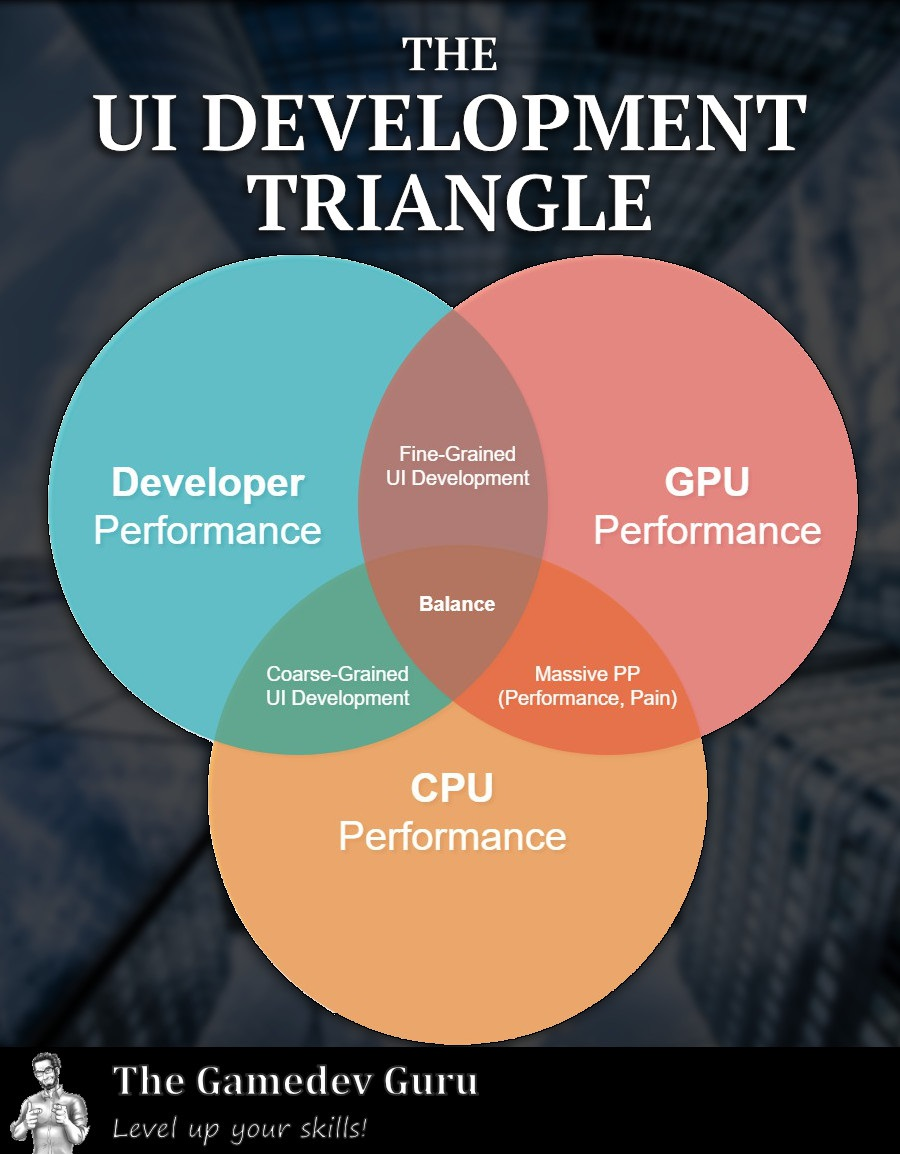
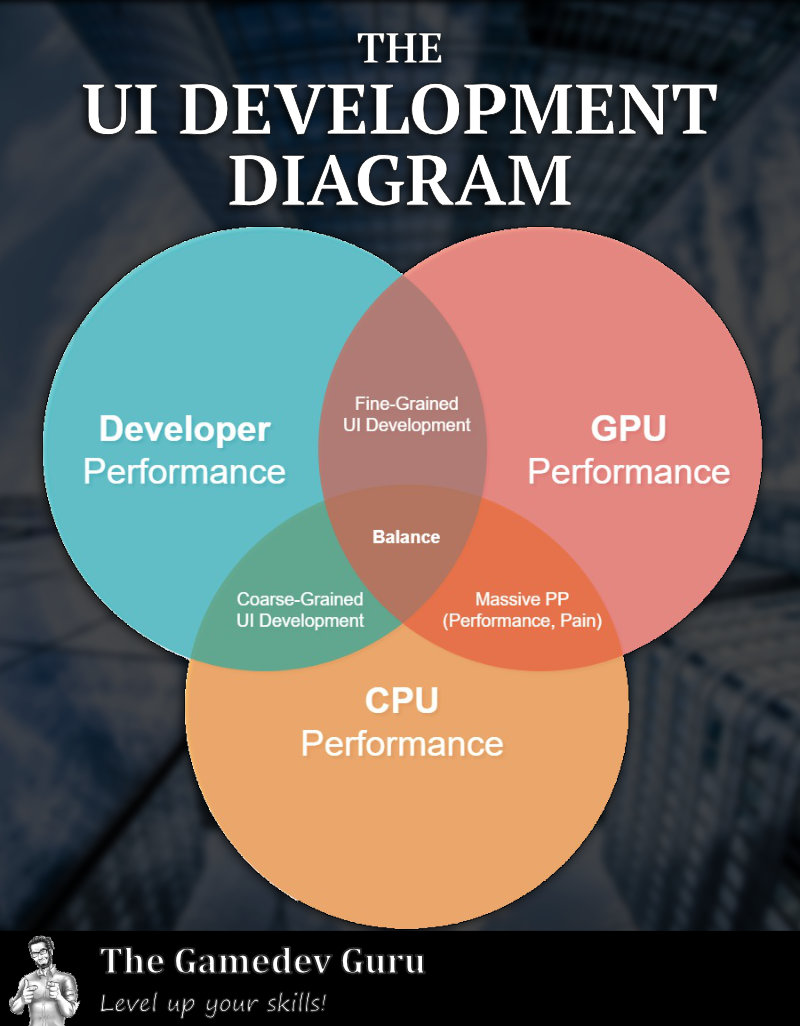
Renaming

Changed region(s): [[0.2812, 0.0936, 0.7188, 0.2183], [0.4688, 0.0312, 0.5, 0.0624], [0.375, 0.9669, 0.4062, 0.9981]]

diff --git a/README.md b/README.md
@@ -1,10 +1,10 @@
-# The Gamedev Guru's Unity UI Development Triangle
+# The Gamedev Guru's Unity UI Development Diagram
 
 Are you curious about different **high-performing UI Development Approaches** in Unity?
 
 Or maybe you are in the middle of a **performance** mess and need some inspiration?
 
-This project will, along the article posted at [**thegamedev.guru**](https://thegamedev.guru/the-ui-development-triangle/), help you getting a quick overview on different techniques you may apply while designing and/or optimizing the user interfaces of your games.
+This project will, along the article posted at [**thegamedev.guru**](https://thegamedev.guru/the-ui-development-diagram/), help you getting a quick overview on different techniques you may apply while designing and/or optimizing the user interfaces of your games.
 
-[![alt text](Extras/the-gamedev-guru-Unity-UI-development-triangle.jpg "The Gamedev Guru's UI Development Triangle")](https://thegamedev.guru/the-ui-development-triangle/)
+[![alt text](Extras/the-gamedev-guru-Unity-UI-development-diagram.jpg "The Gamedev Guru's UI Development Diagram")](https://thegamedev.guru/the-ui-development-diagram/)
 
